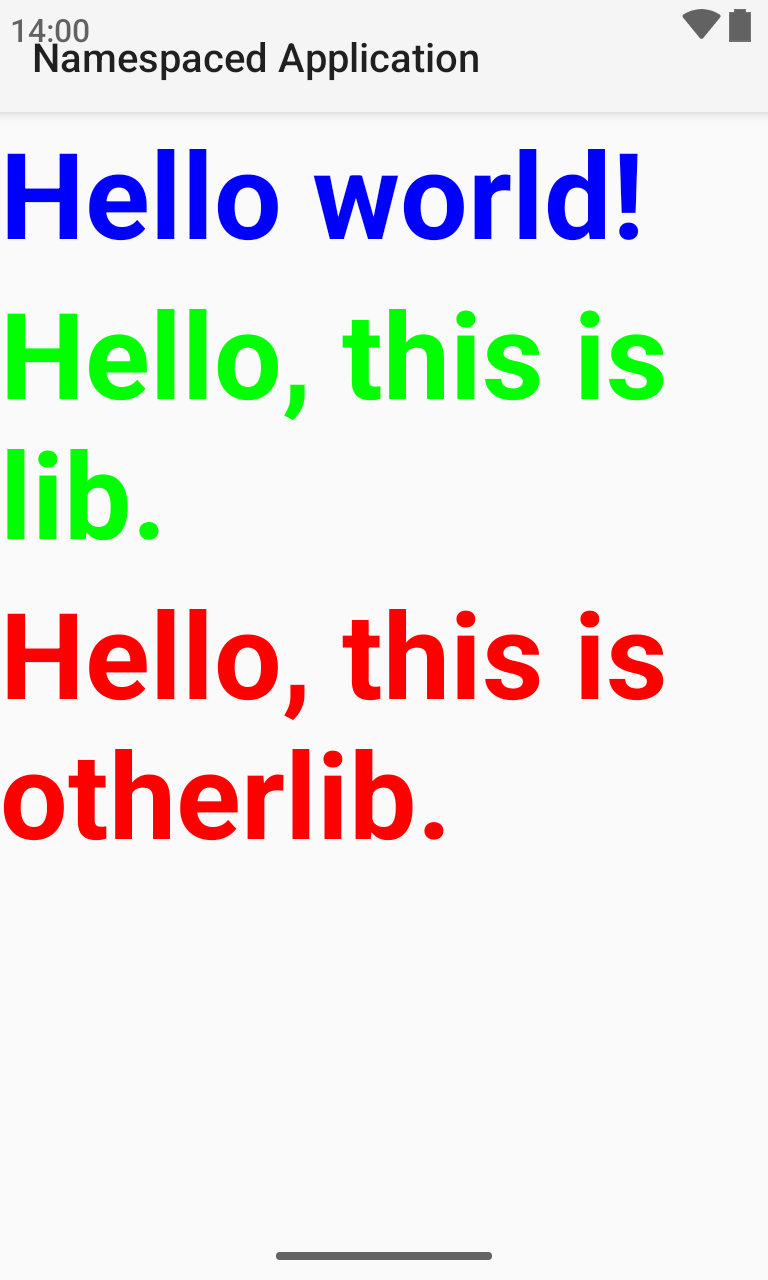
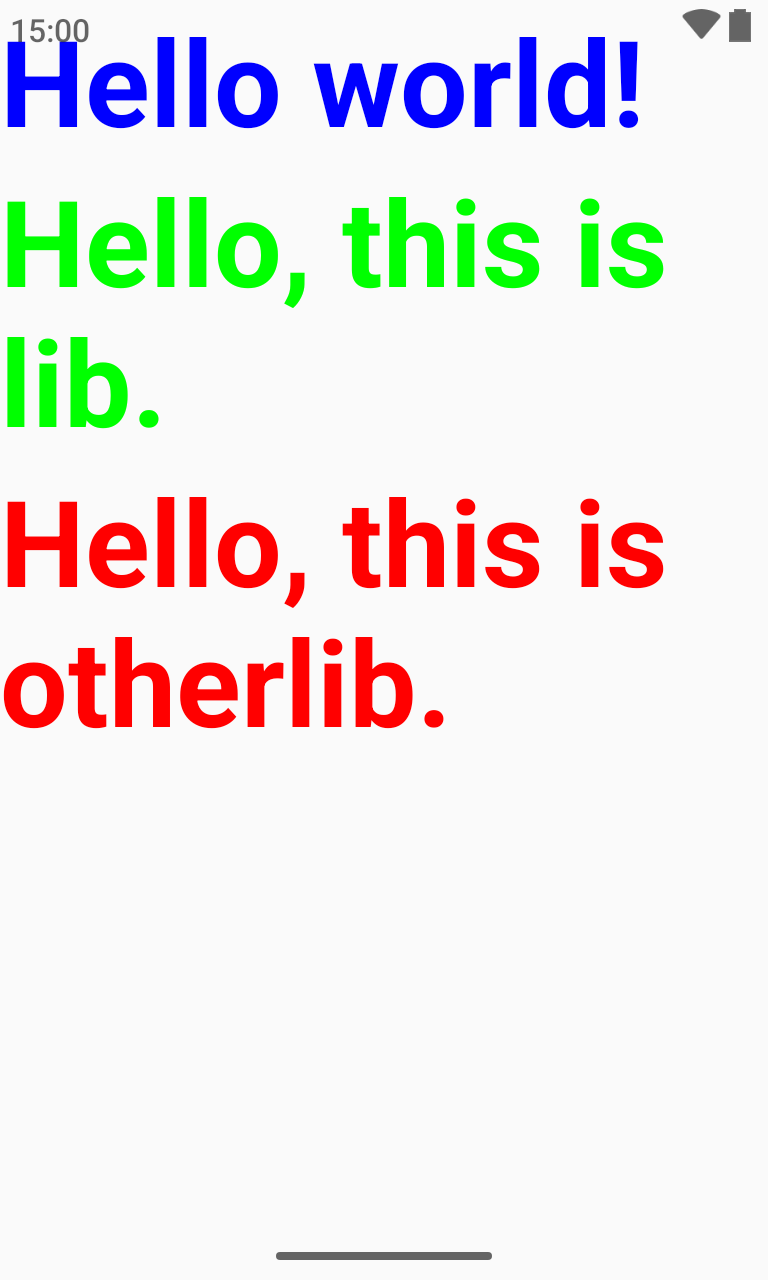
Update default theme to Theme.Material.Light.NoActionBar
Theme.Material.Light.NoActionBar is the default theme when created a new
project. Whenever no theme is specified in the manifest (e.g. in library
modules), Compose preview should use this one.

Fixes: 389194647
Test: test updated

GitOrigin-RevId: 824826ed9e93c7d1466bdd5d71cb0f4742e43987
(cherry picked from commit 3fdc9e5a1fbec7943d35b61a6ef4daf243a9cb06)

Changed region(s): [[0.0, 0.0, 0.875, 0.6562], [0.75, 0.375, 0.875, 0.5625]]

diff --git a/android/src/com/android/tools/idea/configurations/ThemeUtils.kt b/android/src/com/android/tools/idea/configurations/ThemeUtils.kt
@@ -212,7 +212,7 @@ fun getDeviceDefaultTheme(
   }
 
   if (moduleInfo == null) {
-    return SdkConstants.ANDROID_STYLE_RESOURCE_PREFIX + "Theme.Material.Light"
+    return SdkConstants.ANDROID_STYLE_RESOURCE_PREFIX + "Theme.Material.Light.NoActionBar"
   }
 
   // From manifest theme documentation: "If that attribute is also not set, the default system theme is used."
@@ -224,7 +224,7 @@ fun getDeviceDefaultTheme(
   val apiLevel = targetOrMinSdk.coerceAtMost(renderingTargetSdk)
   return SdkConstants.ANDROID_STYLE_RESOURCE_PREFIX +
     when {
-      apiLevel >= 21 -> "Theme.Material.Light"
+      apiLevel >= 21 -> "Theme.Material.Light.NoActionBar"
       apiLevel >= 14 || apiLevel >= 11 && screenSize == ScreenSize.XLARGE -> "Theme.Holo"
       else -> "Theme"
     }
